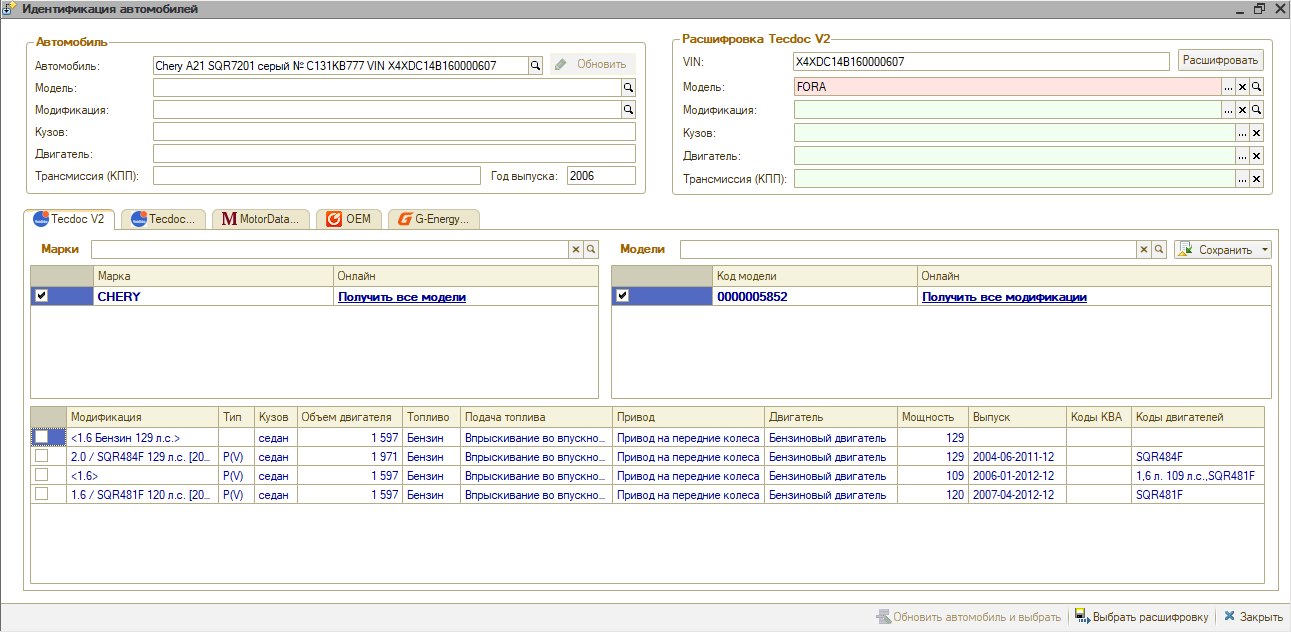
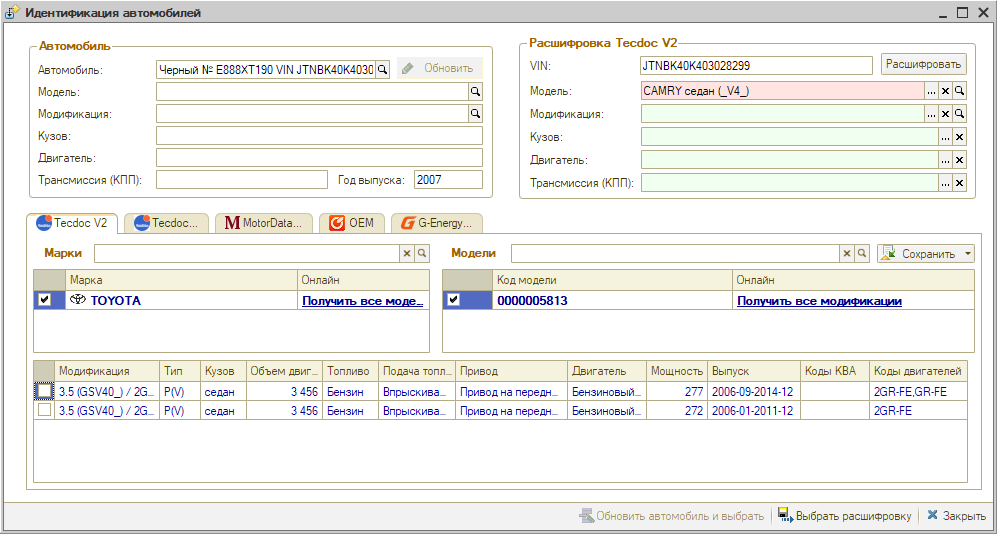
Статья «Расшифровка автомобиля по VIN»: убрано упоминание кнопки Tecdoc, уточнён порядок закладки V2, обновлён снимок окна идентификации, добавлены примечание о карточке автомобиля и «при наличии данных» (19.11.2026)

diff --git a/articles/5S AUTO/Автосервис/Расшифровка автомобиля по VIN/rasshifrovka-avtomobilya-po-vin.md b/articles/5S AUTO/Автосервис/Расшифровка автомобиля по VIN/rasshifrovka-avtomobilya-po-vin.md
@@ -68,21 +68,21 @@
 
 ## Идентификация автомобиля по VIN
 
-После перехода к расшифровке по VIN открывается окно «Идентификация автомобилей», где происходит расшифровка автомобиля в каталогах Tecdoc и идентификация в OEM каталогах. Окно открывается сразу по кнопке с иконкой Tecdoc, без промежуточного меню:
+После перехода к расшифровке по VIN открывается окно «Идентификация автомобилей», где происходит расшифровка автомобиля в каталогах Tecdoc и идентификация в OEM каталогах. При открытии окна активна закладка «Tecdoc V2»:
 
 ![Окно «Идентификация автомобилей», открытое из карточки автомобиля](attachments/30-okno-identifikacii-iz-kartochki.png)
 
-Если модель уже выбрана, откроется то же окно, но с заполненными данными. При открытии окна активна закладка «Tecdoc V2»:
+Если модель уже выбрана, откроется то же окно, но с заполненными данными:
 
 ![Окно «Идентификация автомобилей» на закладке Tecdoc V2](attachments/28-okno-identifikacii-tecdoc-v2.png)
 
 ### Расшифровка в Tecdoc V2
 
-Закладка «Tecdoc V2» открывается по умолчанию. Закладка «Tecdoc» с прежним алгоритмом остается. Чтобы расшифровать автомобиль на закладке «Tecdoc V2»:
+Чтобы расшифровать автомобиль на закладке «Tecdoc V2»:
 
 1. Отметьте марку галочкой в таблице «Марки». Модели этой марки появятся в таблице «Модели».
 2. Отметьте модель галочкой. Ее модификации появятся в нижней таблице.
-3. Отметьте галочкой подходящую модификацию. Модель, модификация, кузов, двигатель и трансмиссия заполнятся в области «Расшифровка Tecdoc V2».
+3. Отметьте галочкой подходящую модификацию. Модель, модификация, кузов, двигатель и трансмиссия (при наличии данных) заполнятся в области «Расшифровка Tecdoc V2».
 
    ![Расшифровка автомобиля на закладке Tecdoc V2](attachments/26-tecdoc-v2-vybor-parametrov.png)
 
@@ -92,8 +92,6 @@
    ![Карточка автомобиля после расшифровки на Tecdoc V2](attachments/27-rezultat-kartochka-avtomobilya.png)
 
 > 🛠 Комментарий для черновика: *Что именно изменилось в алгоритме расшифровки на V2 по сравнению с закладкой «Tecdoc»? Из описания разработчика не ясно, поэтому сравнение в статью пока не вошло. Уточнить.*
-
-> 🛠 Комментарий для черновика: *Сравнение таблиц модификаций по скриншотам 11 (закладка «Tecdoc») и 26 (закладка «Tecdoc V2»). На V2 появились столбцы «Код модели», «Model name», «Тип», «Двигатель», «Мощность». Не видны столбцы старой таблицы «Начало выпуска», «Конец выпуска», «Код двигателя», «л.с.», «Клапанов». Обе таблицы обрезаны справа, поэтому полный состав столбцов нужно сверить по программе.*
 
 > 🛠 Комментарий для черновика: *Нужно ли перед отметкой нажимать ссылки «Получить все модели» и «Получить все модификации» в таблицах? На скриншоте 26 модели уже загружены, но ссылки в таблицах есть.*
 
@@ -178,6 +176,8 @@
 
 Если VIN не расшифровывается, автомобиль можно выбрать из списка прямо в поле на формах Корзины, заказ-наряда, заявки на ремонт и АРМ «Запись на ремонт». Окно «Идентификация автомобилей» для этого открывать не нужно.
 
+Карточка автомобиля должна быть создана. Удобнее всего сделать это при регистрации обращения — в сделке или сразу в Корзине, — а затем при работе с документами расшифровать автомобиль и уточнить его данные. Подробнее см. урок «[Создание карточки автомобиля](../../../../lessons/Краткий%20курс%20для%20Автосервиса/Создание%20карточки%20автомобиля/sozdanie-kartochki-avtomobilya.md)».
+
 Название поля зависит от того, что в нем введено. Если введен только VIN, поле называется «VIN». Если поле пустое или автомобиль уже расшифрован, поле называется «Автомобиль».
 
 Чтобы открыть список, нажмите кнопку справа от поля. Модель показана вместе с маркой, например «PEUGEOT, 308 I (4A_, 4C_)», а модификации идут под своей моделью. Выберите модель, затем модификацию.
@@ -196,7 +196,7 @@
 
 > 🛠 Комментарий для черновика: *Что происходит при нажатии «Нет» в обоих окнах? Что меняется в корзине после «Да»: заполняется поле «Автомобиль» или карточка? Уточнить у разработчика.*
 
-> 🛠 Комментарий для черновика: *Одинаково ли работает выбор в заказ-наряде, заявке на ремонт и АРМ «Запись на ремонт»? Скриншоты только из Корзины. Проверить по программе и при отличиях добавить.*
+> 🛠 Комментарий для черновика: *В заказ-наряде и заявке на ремонт выбор работает так же, как в Корзине. В АРМ «Запись на ремонт» эту кнопку найти не удалось — уточнить у разработчика, должна ли она там быть.*
 
 ## Сохранение моделей и модификаций автомобилей из Tecdoc в базу 1С
 
